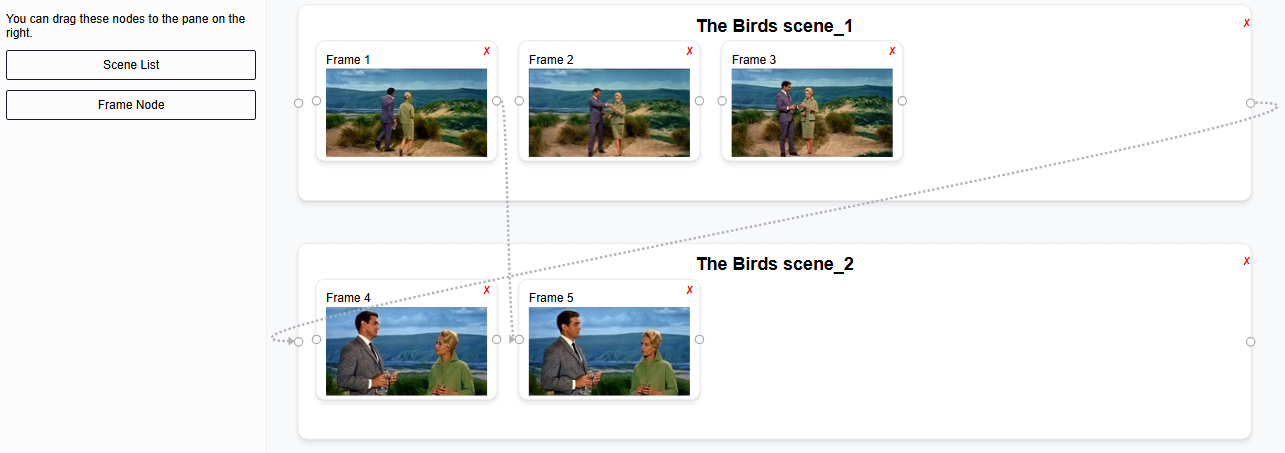
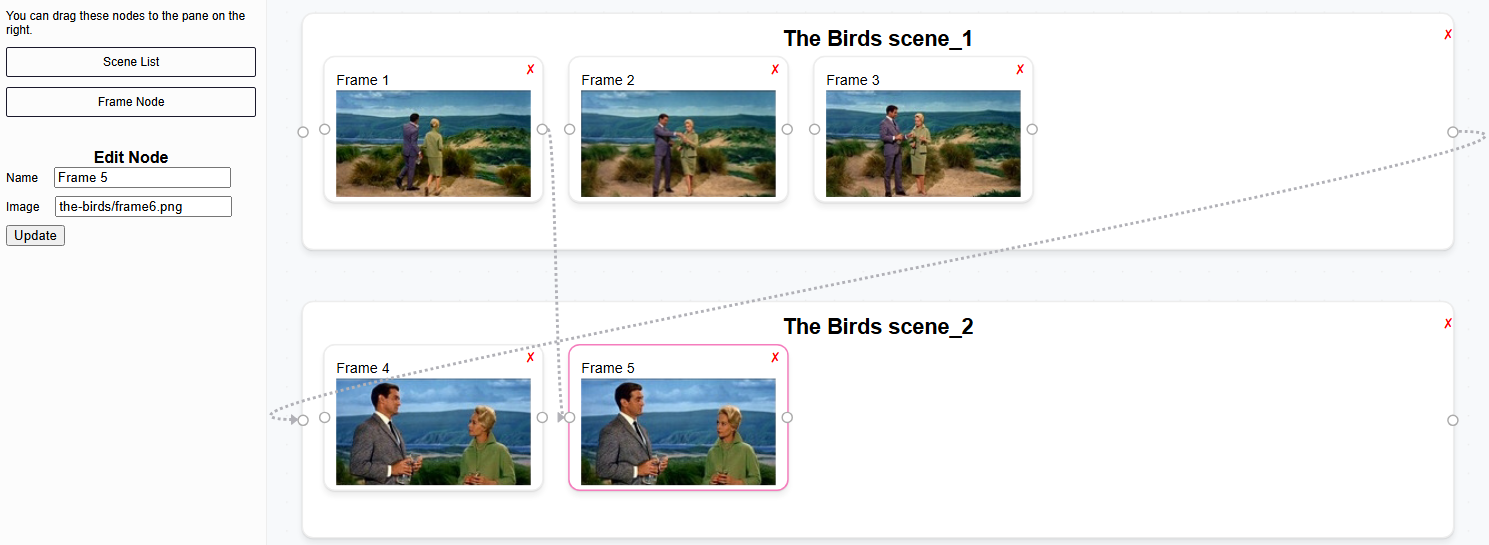
added comments, updated example image

diff --git a/src/App.tsx b/src/App.tsx
@@ -99,7 +99,6 @@ const NestedFlow = () => {
         if (dragItemTypeLocal == sidebarFrameStr) {
           if (nodesInMouseArea.length == 1 && nodesInMouseArea[0].type == sceneListStr) {
             const newFrameNode = makeNewFrameNode(nodesInMouseArea[0].id, null, null);
-            // console.log("onDrop before insert a", newFrameNode);
             dispatch(addFrameToScene(newFrameNode));
           }
           else {
@@ -166,6 +165,7 @@ const NestedFlow = () => {
     const nodeHtmlBounds = getNodeHtmlBounds();
     const nodesInMouseArea = getNodesByEventClientPosition(e, nodeHtmlBounds);
 
+    // don't allow scene list to drop onto another scene list
     if (node.type == sceneListStr) {
       if (doesSceneToucheOtherScene(e, node)) {
         dispatch(updateNodePosition(dragNode)); // reset scene list position
@@ -175,6 +175,7 @@ const NestedFlow = () => {
       }
     }
 
+    // don't allow a frame to be dropped on an empty area, must drop on a scene list
     if (nodesInMouseArea.length < 2 && dragFrameNode && nodesInMouseArea[1] == dragFrameNode.id) {
       if (dragItemTypeLocal == frameNodeStr) {
         dispatch(updateNodePosition(dragFrameNode)); // reset frame position
@@ -186,26 +187,32 @@ const NestedFlow = () => {
     else {
       const sceneListCount = nodesInMouseArea.reduce((count, node) => {return node.type == sceneListStr ? count+1 : count; }, 0);
 
+      // don't allow scene list to drop onto another scene list
       if (dragItemTypeLocal == sceneListStr && sceneListCount > 1) {
         dispatch(updateNodePosition(dragNode)); // reset scene list position
         dragNode = null;
         alert("Don't drag scene lists on top of each other!");
         return;
       }
+      // flowSlice onNodesChange() updates the nodes positions; the scene list new position is already handled there (last drag position)
 
+      // moving a frame node
       if (dragItemTypeLocal == frameNodeStr && dragFrameNode) { // move position
         const foundFrameNode = nodesInMouseArea.find((n) => n.type == frameNodeStr && n.id != dragFrameNode.id);
 
+        // insert frame before other frame (foundFrameNode)
         if (foundFrameNode) {
           dispatch(moveFrame({beforeFrameId:foundFrameNode.id, frameNode:dragFrameNode, toParentId:foundFrameNode.parentId}));
         }
         else {
+          // don't allow a frame to be dropped on an empty area, must drop on a scene list
           if (sceneListCount == 0) {
             alert("Must drop frame onto a scene.");
             dispatch(updateNodePosition(dragFrameNode)); // reset frame position
             return;
           }
 
+          // append frame to the end of a scene list
           const foundSceneNode = nodesInMouseArea.findLast((n) => n.type == sceneListStr);
           dispatch(moveFrame({beforeFrameId:'', frameNode:dragFrameNode, toParentId:foundSceneNode.id}));
         }

diff --git a/src/store/flowSlice.js b/src/store/flowSlice.js
@@ -30,16 +30,15 @@ function insertFrameToSceneList(allNodes, frameNode, parentId, beforeFrameId) {
   toSceneFrameNodes.sort((a, b) => a.position.x - b.position.x); // sort by position.x in ascending order
 
   if (! beforeFrameId) {
-    const lastFrameNode = toSceneFrameNodes[toSceneFrameNodes.length - 1];
+    // at the end of the scene
     frameNode.position.x = toSceneFrameNodes.length * frameNodeNextXPosDistance + sceneListPadding;
     frameNode.position.y = frameNodeYPos;
   }
   else {
-    // then insert frameNode and update it and subsequent positions
+    // insert frameNode before hovered frame and update it and subsequent positions
     const insertIdx = toSceneFrameNodes.findIndex(f => f.id == beforeFrameId);
     frameNode.position.x = (insertIdx + 1) * frameNodeNextXPosDistance + sceneListPadding;
     frameNode.position.y = frameNodeYPos;
-    let newXPos = 0;
 
     for (let i=insertIdx; i<toSceneFrameNodes.length-1; i++) {
       allNodeIndicesDict[ toSceneFrameNodes[i].id ].position.x = (i + 1) * frameNodeNextXPosDistance + sceneListPadding;
@@ -141,6 +140,7 @@ export const flow = createSlice({
       const sceneNodes = allNodes.filter(n => n.parentId == fromParentId);
       sceneNodes.sort((a, b) => a.position.x - b.position.x); // // sort by position.x in ascending order
 
+      // update horizontal positions
       for (let i=0; i<sceneNodes.length; i++) {
         sceneNodes[i].position.x = i * frameNodeNextXPosDistance + sceneListPadding;
       }
@@ -170,15 +170,18 @@ export const flow = createSlice({
       // I thought beforeFrameId may need to be considered when inserting, but that doesn't seem to be the case.
       // I also thought there could be a problem of order placement with the relative position.x to the fromParentId.
 
+      // update horizontal positions
       for (let i=0; i<toSceneNodes.length; i++) {
         toSceneNodes[i].position.x = i * frameNodeNextXPosDistance + sceneListPadding;
       }
 
       if (! isMovingScenes) { return; }
 
+      // clean up the frame positions in the old scene list
       const fromSceneNodes = state.nodes.filter(n => n.parentId == fromParentId);
       fromSceneNodes.sort((a, b) => a.position.x - b.position.x); // sort by position.x in ascending order
 
+      // update horizontal positions
       for (let i=0; i<fromSceneNodes.length; i++) {
         fromSceneNodes[i].position.x = i * frameNodeNextXPosDistance + sceneListPadding;
       }

diff --git a/src/Sidebar.jsx b/src/Sidebar.jsx
@@ -11,6 +11,12 @@ export default (props) => {
   const imageUrlInputRef = useRef(null);
 
 
+  const onDragStart = (event, nodeType) => {
+    setDragItemType(nodeType);
+    event.dataTransfer.effectAllowed = 'move';
+  };
+
+  
   useEffect(() => {
     if (nameInputRef.current) {
       nameInputRef.current.value = props.editnode?.data.label || "";
@@ -18,20 +24,7 @@ export default (props) => {
     if (imageUrlInputRef.current) {
       imageUrlInputRef.current.value = props.editnode?.data.image.url || "";
     }
-  }, [
-    props.editnode
-  ]);
-
-
-  const onDragStart = (event, nodeType) => {
-    setDragItemType(nodeType);
-    event.dataTransfer.effectAllowed = 'move';
-  };
-
-  const nameChange = (e) => {
-  };
-  const imageUrlChange = (e) => {
-  };
+  }, [ props.editnode ]);
 
   const updateNode = () => {
     if (nameInputRef.current.value != props.editnode.data.label) {
@@ -44,6 +37,10 @@ export default (props) => {
     props.closeMe();
   };
  
+  const nameChange = (e) => { };
+  const imageUrlChange = (e) => { };
+
+
   return (
     <aside>
       <div className="description">You can drag these nodes to the pane on the right.</div>

diff --git a/src/nodeTypes/SceneList.jsx b/src/nodeTypes/SceneList.jsx
@@ -20,6 +20,7 @@ const SceneList = ({ id, data }) => {
         frameNodes.sort((a, b) => a.position.x - b.position.x); // sort by position.x in ascending order
         return frameNodes;
     }
+    
     const frameNodes = useMemo(() => {
         return getOrderedFrameNodes(nodes, id);
     }, [nodes, id]);

diff --git a/src/DnDContext.jsx b/src/DnDContext.jsx
@@ -1,3 +1,4 @@
+// Drag and Drop Context Provider used to handle dragging nodes
 import { createContext, useContext, useState } from 'react';
  
 const DnDContext = createContext([null, (_) => {}]);
